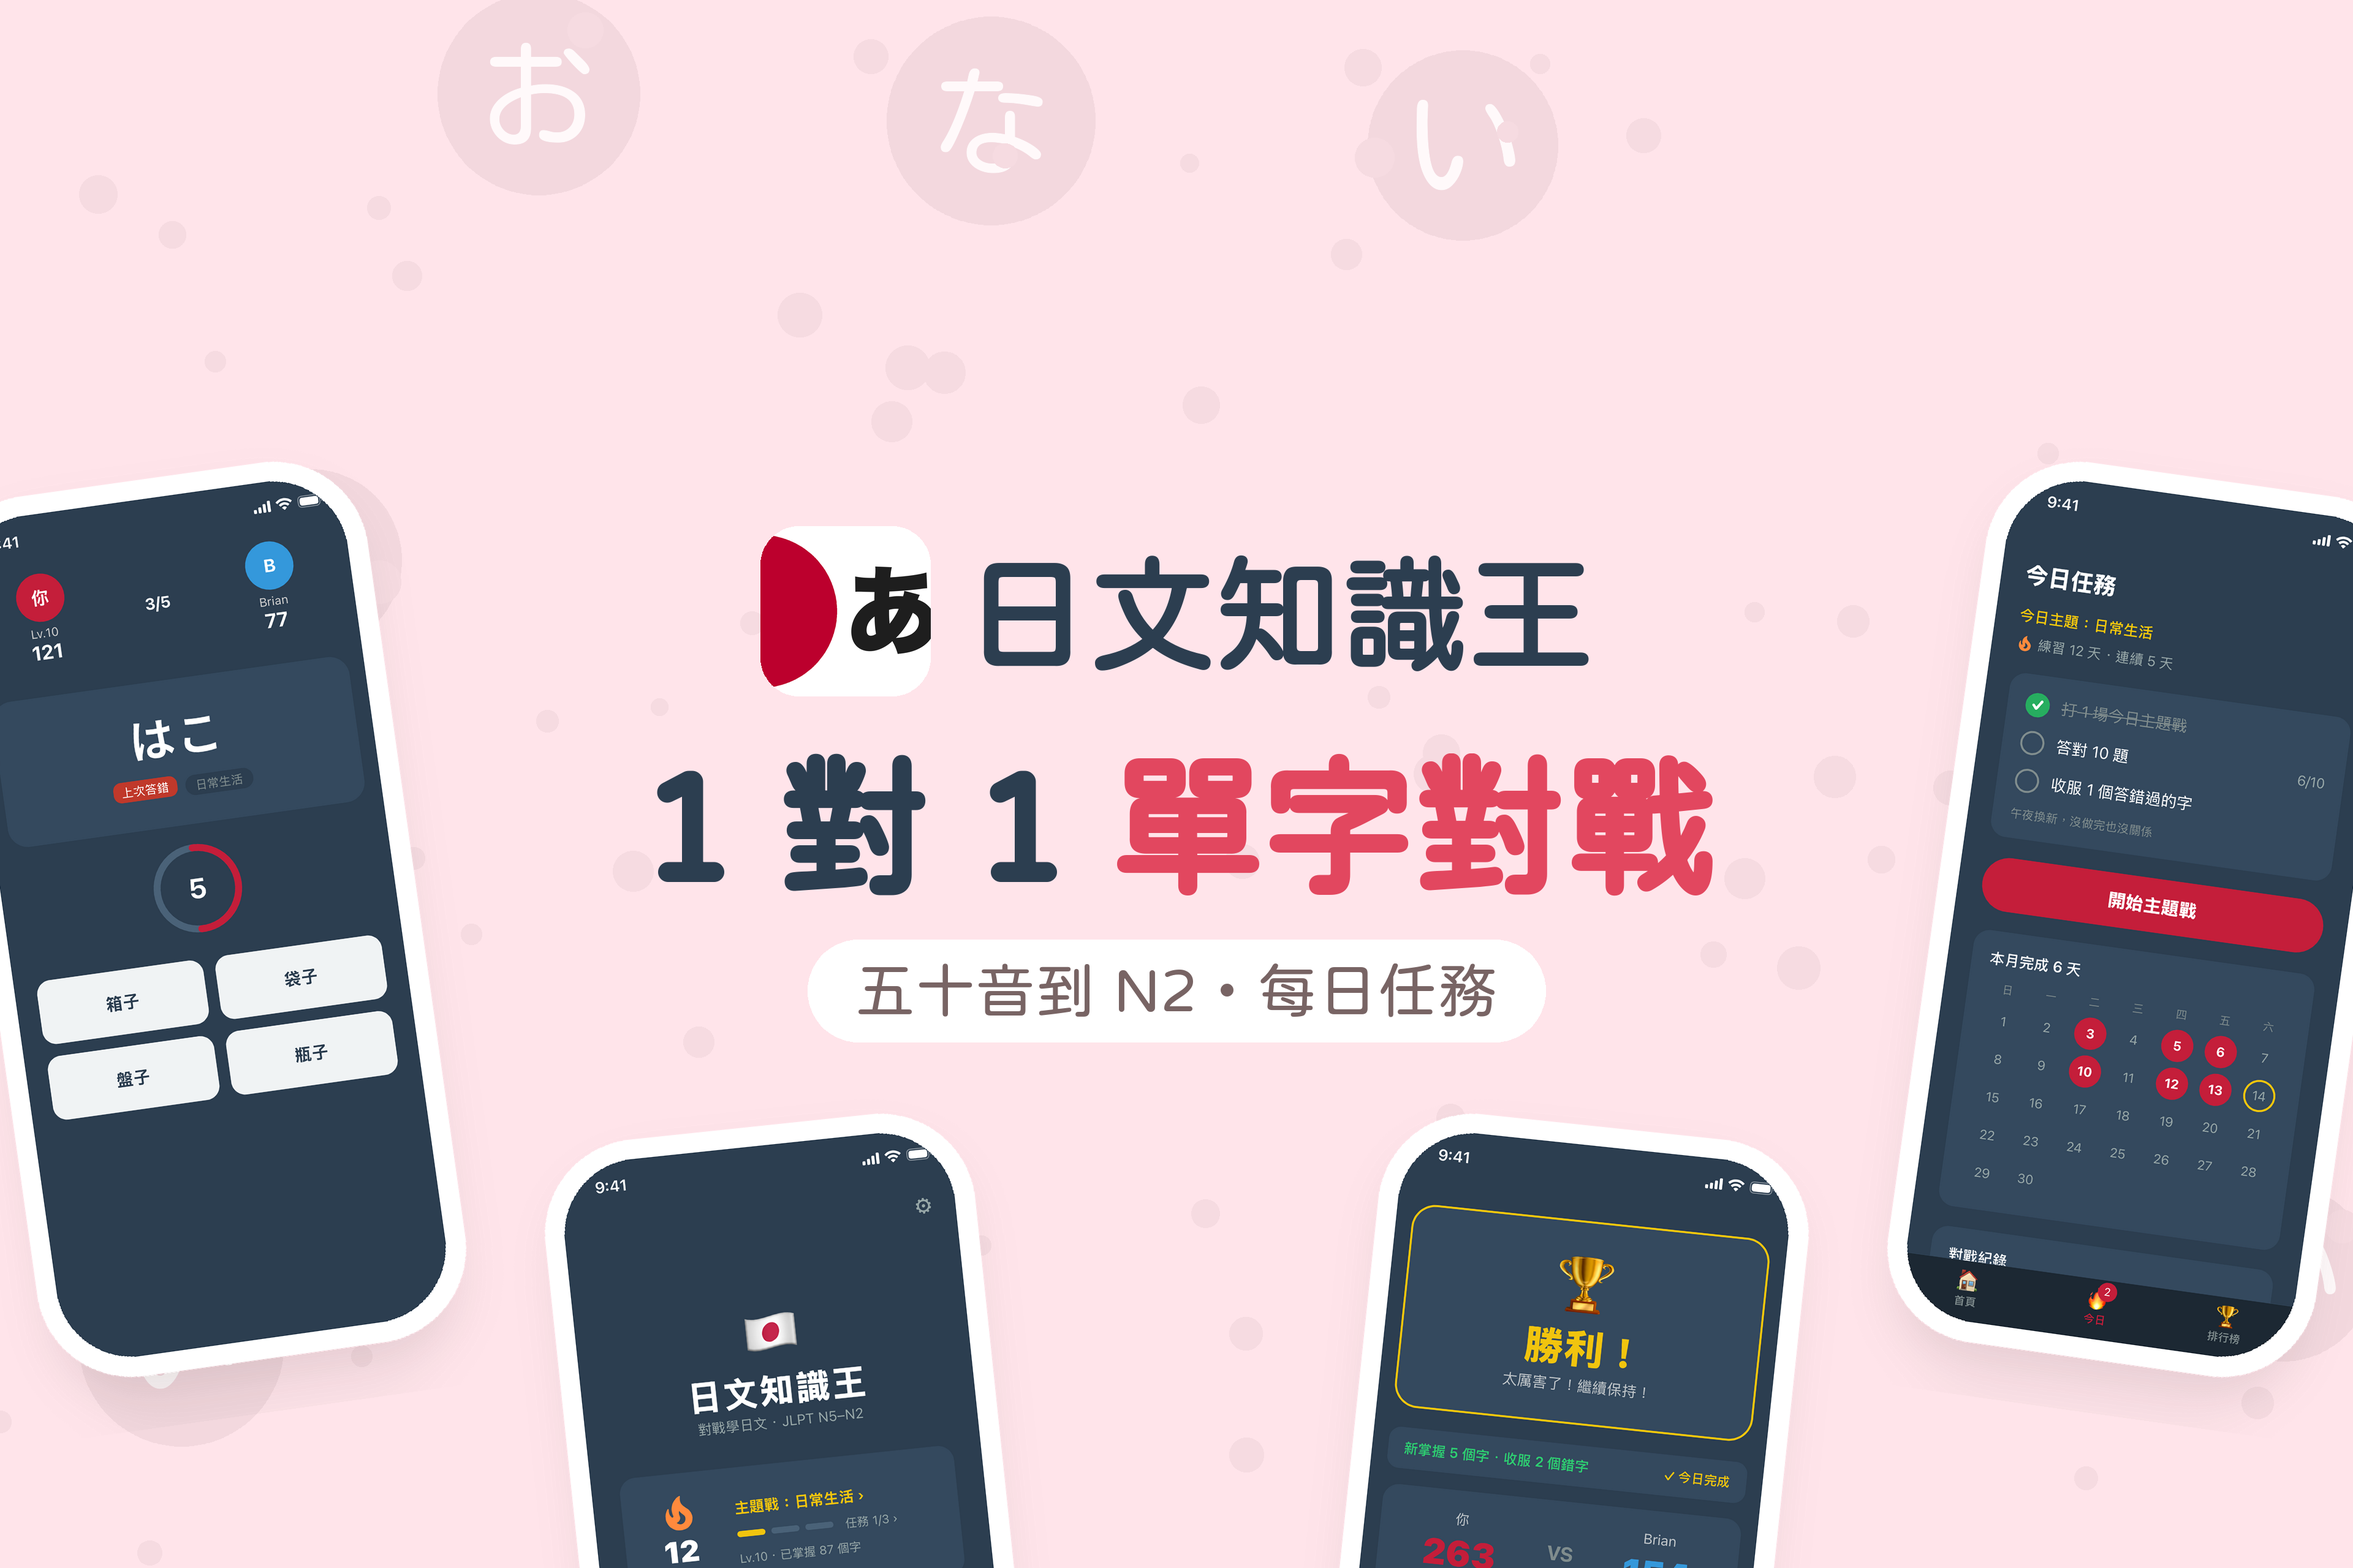
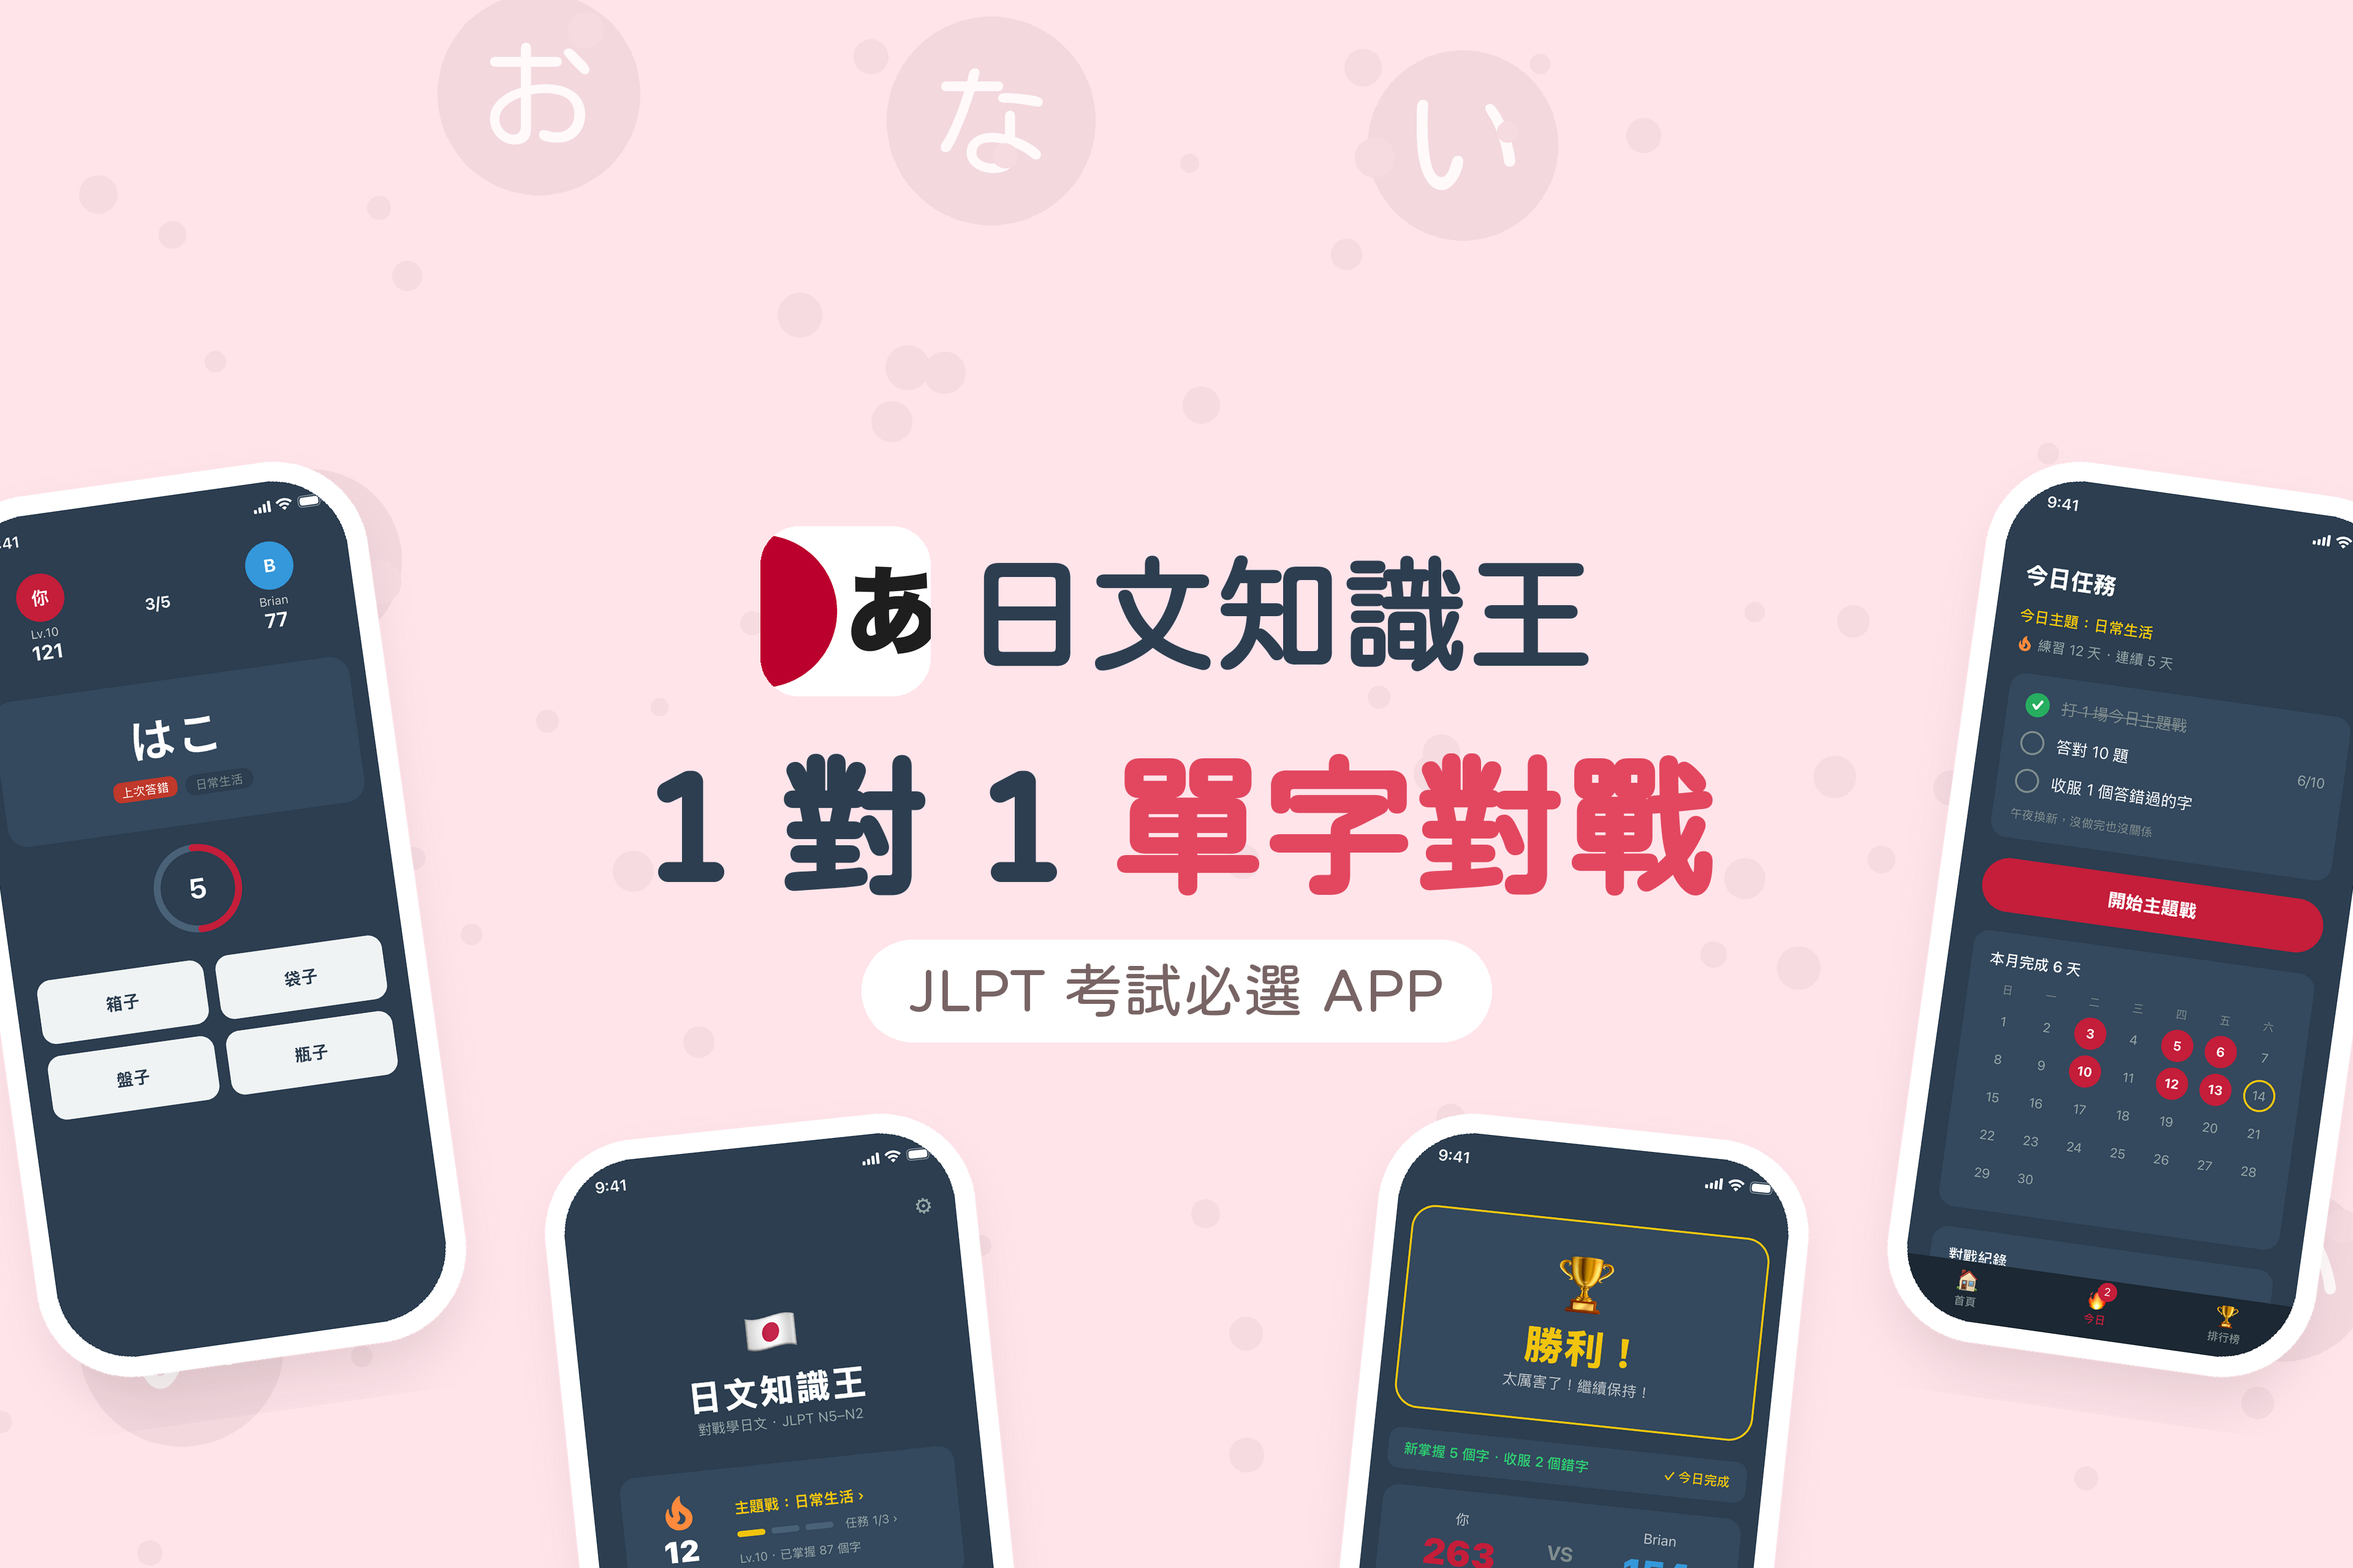
docs(appstore): keep "JLPT 考試必選 APP" pill; new description (zh, en)
- Creative assets: pill back to "JLPT 考試必選 APP" / "The must-have JLPT app"
- Description: user's new zh text (no AI mentions, simpler mastered rule,
  drop furigana / adaptive AI / UI language lines); English matched

Changed region(s): [[0.3438, 0.5938, 0.6562, 0.6875]]

diff --git a/scripts/compose_appstore_header.py b/scripts/compose_appstore_header.py
@@ -20,7 +20,7 @@ and can be cropped on any device.
   search 3:2       3840 x 2560  2168 x 1030 at  836, 765
   universal 16:9   5244 x 2950  1402 x 962  at 1921, 660   (PNG only)
 
-No alpha, no prices, no URLs, no unverifiable claims ("必選", "No.1"...).
+No alpha, no prices, no URLs, no awards or Apple badges.
 """
 import os
 import random
@@ -38,8 +38,8 @@ HERE = os.path.dirname(os.path.abspath(__file__))
 ICON = os.path.join(HERE, '..', 'assets', 'icon.png')
 
 TEXT = {
-    'zh': ('日文知識王', ['1 對 1 ', '單字對戰'], '五十音到 N2・每日任務'),
-    'en': ('Nihongo Quiz King', ['Japanese ', 'vocab battles'], 'Kana to N2 · Daily missions'),
+    'zh': ('日文知識王', ['1 對 1 ', '單字對戰'], 'JLPT 考試必選 APP'),
+    'en': ('Nihongo Quiz King', ['Japanese ', 'vocab battles'], 'The must-have JLPT app'),
 }
 
 # name, size, safe box (x, y, w, h), phones [(shot, centre x, centre y, width, angle)]
